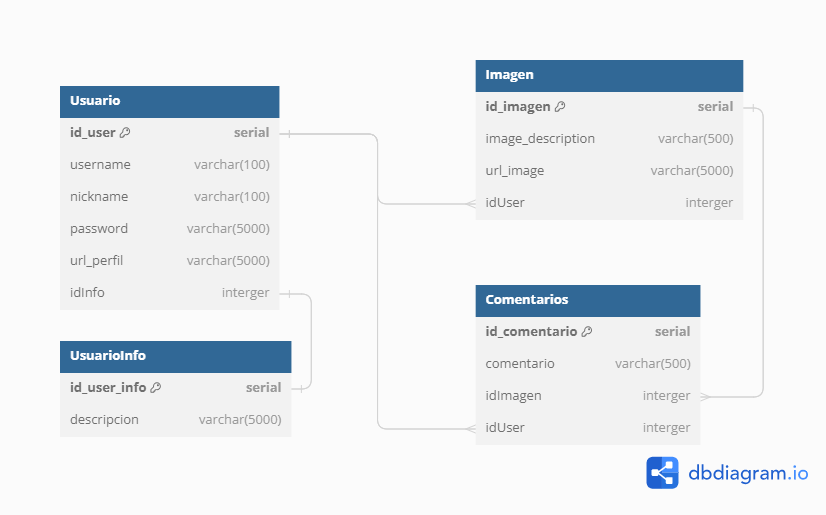
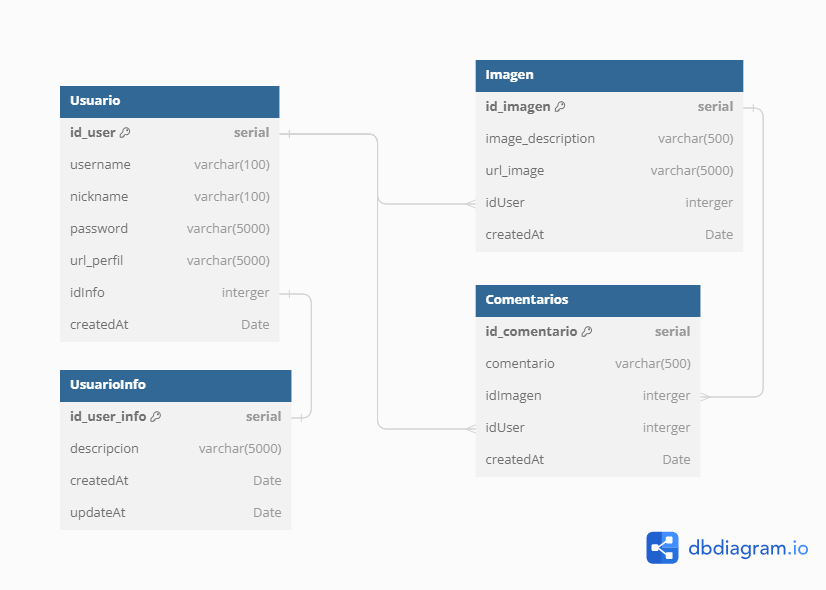
SE agrego fechas de creacion y actualizacion

diff --git a/service/src/dbConfig/Models/Imagen.ts b/service/src/dbConfig/Models/Imagen.ts
@@ -1,24 +1,27 @@
 /* eslint-disable no-mixed-spaces-and-tabs */
-import {Entity, Column, PrimaryGeneratedColumn, ManyToOne, JoinColumn, OneToMany} from 'typeorm';
+import { Entity, Column, PrimaryGeneratedColumn, ManyToOne, JoinColumn, OneToMany, CreateDateColumn } from 'typeorm';
 import { Usuario } from './Usuario';
 import { Comentario } from './Comentario';
 
 
 @Entity()
-export class Imagen implements ImagenInterface{
+export class Imagen implements ImagenInterface {
     @PrimaryGeneratedColumn('uuid')
     	id_imagen: string;
 
-    @Column({length:500})
+    @Column({ length: 500 })
     	image_description: string;
 
-    @Column({length:5000})
+    @Column({ length: 5000 })
     	url_image: string;
 
-    @ManyToOne(()=>Usuario, usuario => usuario.usuarioInfo, {onDelete:'CASCADE'})
-    @JoinColumn({name:'idUser'})
-    	usuario:Usuario;
+    @CreateDateColumn()
+    	createdAt: Date;
 
-    @OneToMany(()=>Comentario, comentario => comentario.imagenes)
-    	comentario:Comentario[];
+    @ManyToOne(() => Usuario, usuario => usuario.usuarioInfo, { onDelete: 'CASCADE' })
+    @JoinColumn({ name: 'idUser' })
+    	usuario: Usuario;
+
+    @OneToMany(() => Comentario, comentario => comentario.imagenes)
+    	comentario: Comentario[];
 }

diff --git a/service/src/dbConfig/Models/UsuarioInfo.ts b/service/src/dbConfig/Models/UsuarioInfo.ts
@@ -1,16 +1,22 @@
 /* eslint-disable no-mixed-spaces-and-tabs */
-import {Entity, Column, PrimaryGeneratedColumn, OneToOne} from 'typeorm';
+import { Entity, Column, PrimaryGeneratedColumn, OneToOne, CreateDateColumn, UpdateDateColumn } from 'typeorm';
 import { Usuario } from './Usuario';
 
 
 @Entity()
-export class UsuarioInfo implements UsuarioInfoInterface{
+export class UsuarioInfo implements UsuarioInfoInterface {
     @PrimaryGeneratedColumn('uuid')
     	id_user_info: string;
 
-    @Column({length:500})
+    @Column({ length: 500 })
     	descripcion: string;
 
-    @OneToOne(()=>Usuario, usuario=>usuario.usuarioInfo)
-    	usuario:Usuario;
+    @CreateDateColumn()
+    	createdAt: Date;
+
+    @UpdateDateColumn()
+    	updateAt: Date;
+
+    @OneToOne(() => Usuario, usuario => usuario.usuarioInfo)
+    	usuario: Usuario;
 }

diff --git a/service/src/dbConfig/Models/Usuario.ts b/service/src/dbConfig/Models/Usuario.ts
@@ -1,5 +1,5 @@
 /* eslint-disable no-mixed-spaces-and-tabs */
-import { Entity, Column, PrimaryGeneratedColumn, OneToOne, JoinColumn, OneToMany } from 'typeorm';
+import { Entity, Column, PrimaryGeneratedColumn, OneToOne, JoinColumn, OneToMany, CreateDateColumn } from 'typeorm';
 import { UsuarioInfo } from './UsuarioInfo';
 import { Imagen } from './Imagen';
 import { Comentario } from './Comentario';
@@ -21,6 +21,9 @@ export class Usuario implements UsuarioInterface {
 
     @Column({ length: 5000 })
     	url_perfil: string;
+
+    @CreateDateColumn()
+    	createdAt:Date;
 
     @OneToOne(() => UsuarioInfo, usuarioInfo => usuarioInfo.usuario, { onDelete: 'CASCADE' })
     @JoinColumn({ name: 'idInfo' })

diff --git a/service/src/dbConfig/Models/Comentario.ts b/service/src/dbConfig/Models/Comentario.ts
@@ -1,5 +1,5 @@
 /* eslint-disable no-mixed-spaces-and-tabs */
-import {Entity, Column, PrimaryGeneratedColumn, ManyToOne, JoinColumn, JoinTable} from 'typeorm';
+import {Entity, Column, PrimaryGeneratedColumn, ManyToOne, JoinColumn, JoinTable, CreateDateColumn} from 'typeorm';
 import { Imagen } from './Imagen';
 import { Usuario } from './Usuario';
 
@@ -14,6 +14,9 @@ export class Comentario{
     @ManyToOne(()=>Imagen, imagenes=>imagenes.usuario, {onDelete:'CASCADE'})
     @JoinColumn({name:'idImagen'})
     	imagenes:Imagen;
+
+    @CreateDateColumn()
+    	createdAt:Date;
 
     @ManyToOne(()=>Usuario, usuario=>usuario.comentarios, {onDelete:'CASCADE'})
     @JoinTable({name:'idUser'})

diff --git a/service/src/mian.d.ts b/service/src/mian.d.ts
@@ -37,6 +37,8 @@ interface UsuarioInfoDto {
 interface UsuarioInfoInterface {
     id_user_info: string;
     descripcion: string;
+    createdAt:Date;
+    updateAt:Date;
 }
 
 
@@ -60,6 +62,7 @@ interface ImagenInterface {
     id_imagen: string;
     image_description: string;
     url_image: string;
+    createdAt:Date;
 }
 
 interface ImagenRelationUser extends ImagenInterface {

diff --git a/service/src/services/ImagenesService.ts b/service/src/services/ImagenesService.ts
@@ -41,6 +41,9 @@ export class ImagenesService {
 			return imagen;
 		}
 		const imagenes = await reImagen.find({
+			order:{
+				createdAt:'DESC'
+			},
 			relations: {
 				usuario: true,
 				comentario: true
